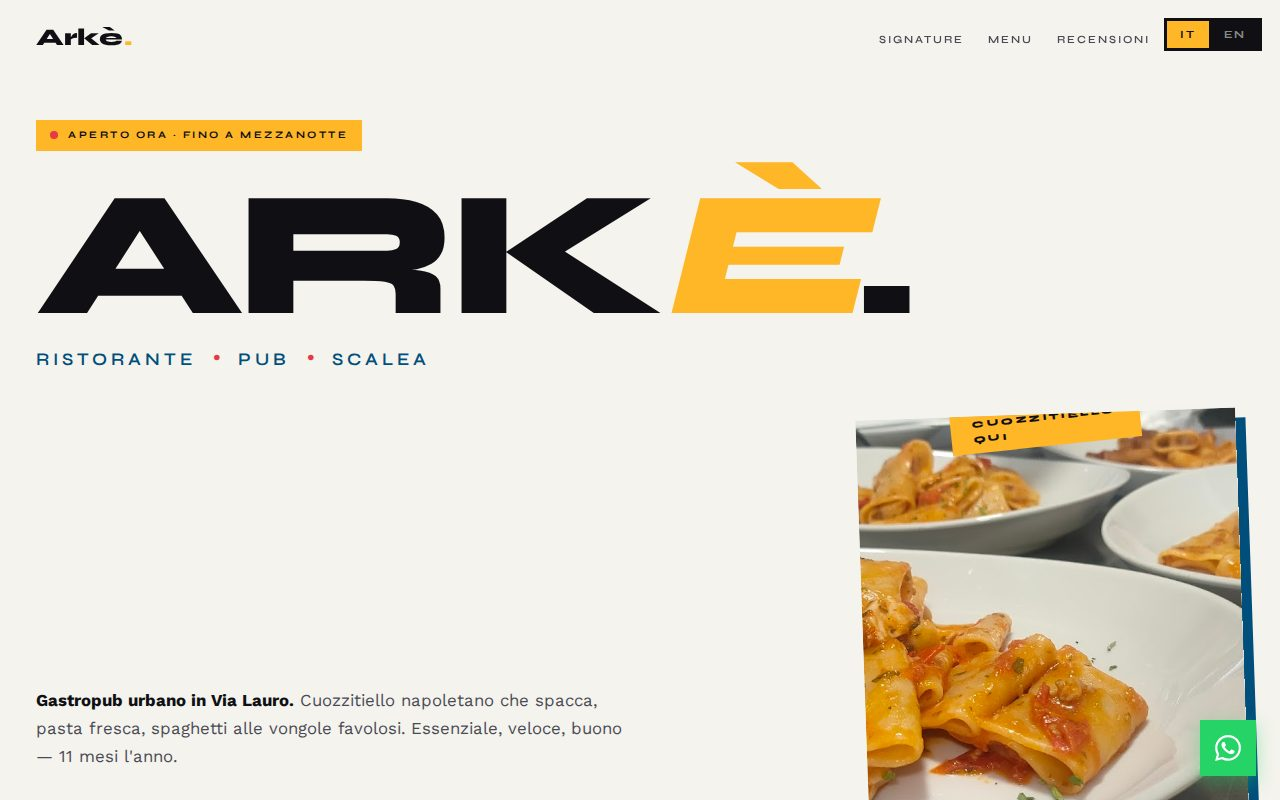
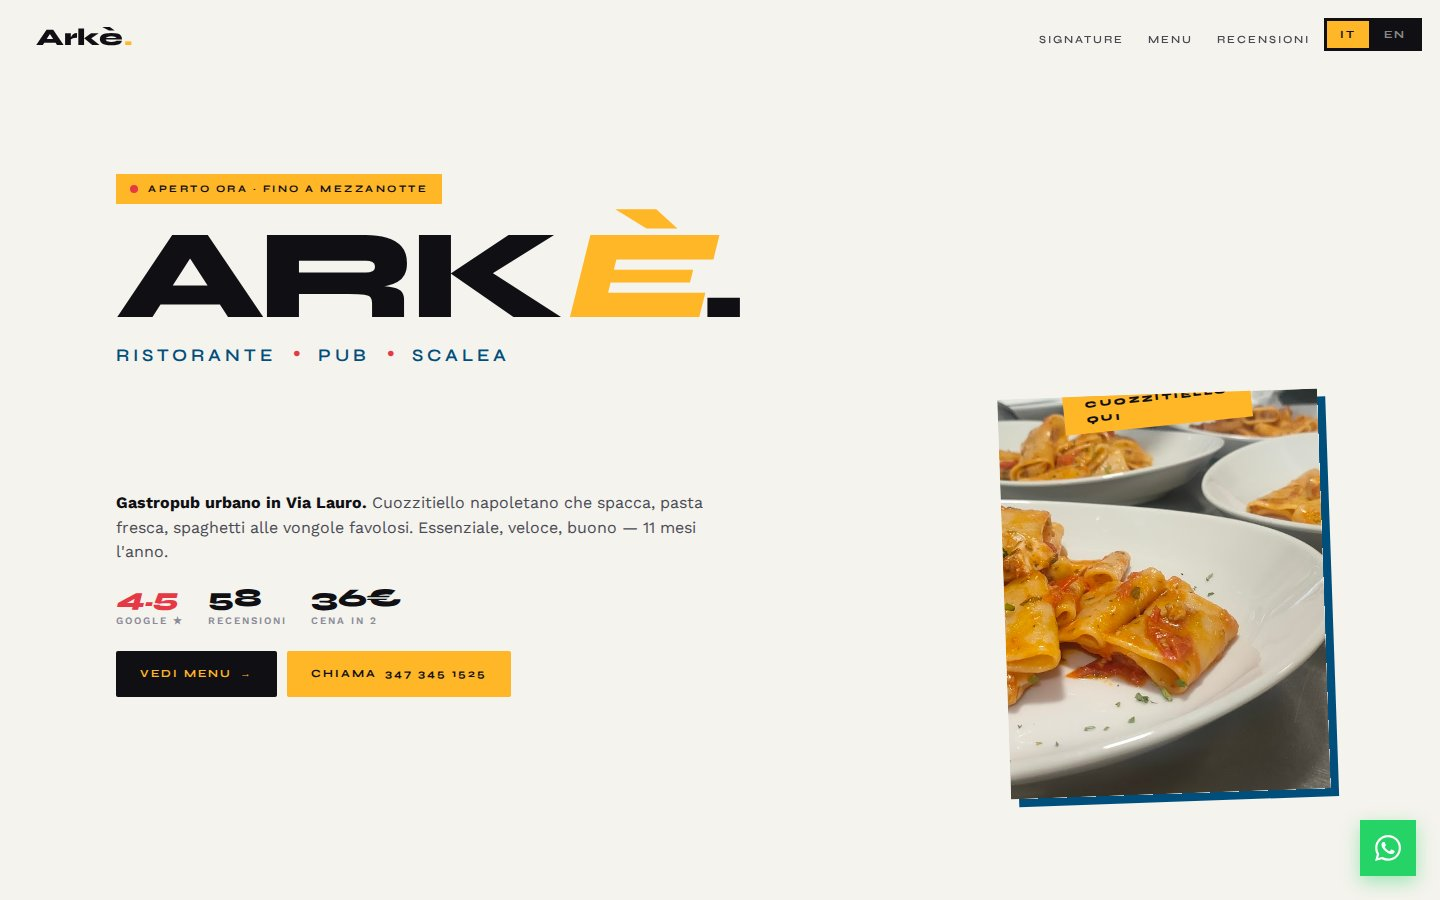
arke: compact hero — smaller H1, reduced gaps, photo centered, fits 100vh

diff --git a/arke/index.html b/arke/index.html
@@ -65,23 +65,23 @@ nav.scrolled .nav-mobile{color:var(--cream)}
 .stagger-child:nth-child(6){transition-delay:.35s}
 
 /* HERO — poster typographic */
-.hero{position:relative;min-height:100vh;padding:120px 0 40px;overflow:hidden;background:var(--cream);display:flex;flex-direction:column;justify-content:center}
+.hero{position:relative;height:100vh;min-height:640px;max-height:100vh;padding:96px 0 28px;overflow:hidden;background:var(--cream);display:flex;flex-direction:column;justify-content:center}
 .hero-wrap{max-width:1280px;margin:0 auto;padding:0 clamp(20px,5vw,36px);position:relative;width:100%}
-.hero-status{display:inline-flex;align-items:center;gap:10px;padding:7px 14px;background:var(--amber);color:var(--ink);font-family:'Syne',sans-serif;font-size:10px;font-weight:700;letter-spacing:2.5px;text-transform:uppercase;margin-bottom:28px;animation:fade-up .6s .1s cubic-bezier(.16,1,.3,1) backwards}
+.hero-status{display:inline-flex;align-items:center;gap:10px;padding:7px 14px;background:var(--amber);color:var(--ink);font-family:'Syne',sans-serif;font-size:10px;font-weight:700;letter-spacing:2.5px;text-transform:uppercase;margin-bottom:18px;animation:fade-up .6s .1s cubic-bezier(.16,1,.3,1) backwards}
 .hero-status-dot{width:8px;height:8px;border-radius:50%;background:var(--red);animation:blink 1.4s ease-in-out infinite}
 @keyframes blink{0%,100%{opacity:.5}50%{opacity:1}}
 .hero-typo{animation:fade-up .9s .25s cubic-bezier(.16,1,.3,1) backwards}
 @keyframes fade-up{from{opacity:0;transform:translateY(30px)}to{opacity:1;transform:translateY(0)}}
-.hero h1{font-size:clamp(4rem,14vw,12rem);font-family:'Syne',sans-serif;font-weight:800;color:var(--ink);letter-spacing:-.045em;line-height:.85;margin-bottom:14px;text-transform:uppercase}
+.hero h1{font-size:clamp(3.5rem,10vw,8rem);font-family:'Syne',sans-serif;font-weight:800;color:var(--ink);letter-spacing:-.045em;line-height:.85;margin-bottom:10px;text-transform:uppercase}
 .hero h1 .accent{color:var(--amber);font-style:italic}
-.hero-sub-row{display:flex;align-items:baseline;gap:16px;margin-bottom:40px;flex-wrap:wrap}
+.hero-sub-row{display:flex;align-items:baseline;gap:16px;margin-bottom:24px;flex-wrap:wrap}
 .hero-sub{font-family:'Syne',sans-serif;font-size:clamp(.95rem,1.4vw,1.1rem);font-weight:600;letter-spacing:4px;text-transform:uppercase;color:var(--blue)}
 .hero-sub-dot{color:var(--red);font-size:1.4rem;line-height:0}
-.hero-row{display:grid;grid-template-columns:1fr 380px;gap:40px;margin-top:30px;align-items:end;animation:fade-up 1s .45s cubic-bezier(.16,1,.3,1) backwards}
+.hero-row{display:grid;grid-template-columns:1fr 320px;gap:36px;margin-top:0;align-items:center;animation:fade-up 1s .45s cubic-bezier(.16,1,.3,1) backwards}
 .hero-body{max-width:600px}
-.hero-desc{font-size:1.05rem;color:var(--slate);margin-bottom:28px;line-height:1.65}
+.hero-desc{font-size:1rem;color:var(--slate);margin-bottom:20px;line-height:1.55}
 .hero-desc strong{color:var(--ink);font-weight:700}
-.hero-meta{display:flex;gap:28px;flex-wrap:wrap;margin-bottom:32px}
+.hero-meta{display:flex;gap:24px;flex-wrap:wrap;margin-bottom:22px}
 .hero-meta-item{display:flex;flex-direction:column;gap:2px}
 .hero-meta-val{font-family:'Syne',sans-serif;font-weight:800;font-size:1.6rem;color:var(--ink);line-height:1;letter-spacing:-.01em}
 .hero-meta-val em{color:var(--red);font-style:italic}
@@ -94,7 +94,7 @@ nav.scrolled .nav-mobile{color:var(--cream)}
 .btn-secondary:hover{background:var(--amber-d)}
 .btn-ghost{background:transparent;color:var(--ink);border:2px solid var(--ink)}
 .btn-ghost:hover{background:var(--ink);color:var(--amber)}
-.hero-photo{position:relative;aspect-ratio:3/4;overflow:hidden;transform:rotate(-2deg);box-shadow:10px 10px 0 var(--blue)}
+.hero-photo{position:relative;aspect-ratio:4/5;max-height:min(52vh,520px);overflow:hidden;transform:rotate(-2deg);box-shadow:8px 8px 0 var(--blue);align-self:center}
 .hero-photo img{width:100%;height:100%;object-fit:cover}
 .hero-photo-tape{position:absolute;top:-10px;left:50%;transform:translateX(-50%) rotate(-4deg);background:var(--amber);color:var(--ink);padding:6px 22px;font-family:'Syne',sans-serif;font-size:9px;font-weight:800;letter-spacing:2.5px;text-transform:uppercase}
 
@@ -305,7 +305,7 @@ footer{background:var(--ink);color:var(--cream);padding:50px clamp(20px,5vw,36px
             </div>
             <div class="hero-photo">
                 <div class="hero-photo-tape"><span class="t-it">Cuozzitiello qui</span><span class="t-en">Cuozzitiello here</span></div>
-                <img src="./photos/photo_03.jpg" alt="Paccheri Arkè">
+                <img src="photos/photo_03.jpg" alt="Paccheri Arkè">
             </div>
         </div>
     </div>
@@ -363,7 +363,7 @@ footer{background:var(--ink);color:var(--cream);padding:50px clamp(20px,5vw,36px
                     <div class="cuoz-badge-big">&euro;8</div>
                     <div class="cuoz-badge-sm"><span class="t-it">Solo</span><span class="t-en">Just</span></div>
                 </div>
-                <img src="./photos/photo_01.jpg" alt="Cuozzitiello">
+                <img src="photos/photo_01.jpg" alt="Cuozzitiello">
             </div>
         </div>
     </div>
@@ -491,10 +491,10 @@ footer{background:var(--ink);color:var(--cream);padding:50px clamp(20px,5vw,36px
         <p class="desc t-en">Real plates and moments from Arkè. What you see is what you get.</p>
     </div>
     <div class="photos-grid reveal">
-        <div class="photo-item"><img src="./photos/photo_01.jpg" alt loading="lazy"></div>
-        <div class="photo-item"><img src="./photos/photo_02.jpg" alt loading="lazy"></div>
-        <div class="photo-item"><img src="./photos/photo_03.jpg" alt loading="lazy"></div>
-        <div class="photo-item"><img src="./photos/photo_00.jpg" alt loading="lazy"></div>
+        <div class="photo-item"><img src="photos/photo_01.jpg" alt loading="lazy"></div>
+        <div class="photo-item"><img src="photos/photo_02.jpg" alt loading="lazy"></div>
+        <div class="photo-item"><img src="photos/photo_03.jpg" alt loading="lazy"></div>
+        <div class="photo-item"><img src="photos/photo_00.jpg" alt loading="lazy"></div>
     </div>
 </section>
 
